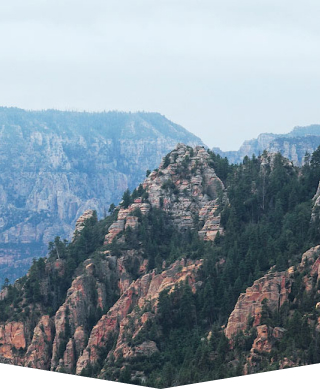
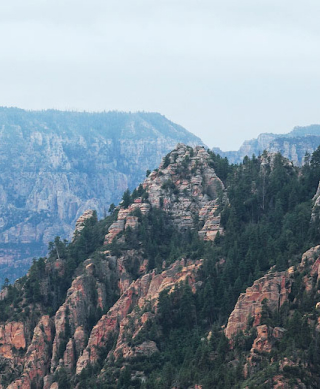
Добавляет декоративные элементы на главную

Changed region(s): [[0.0, 0.9254, 1.0, 1.0]]

diff --git a/source/index.html b/source/index.html
@@ -40,13 +40,13 @@
 
     <!-- основное содержание -->
     <main class="main-container">
-      <h1 class="main-container__title title-default">Седона — небольшой городок в Аризоне, заслуживающий большего!</h1>
+      <h1 class="main-container__title title-default content-width">Седона — небольшой городок в Аризоне, заслуживающий большего!</h1>
 
       <!-- Блок Преимущества -->
       <section class="advantages">
         <div class="advantages__wrapper">
           <h2 class="visually-hidden">Преимущества Седоны перед Гранд Каньоном</h2>
-          <p class="advantages__intro">Рассмотрим 5 причин, по которым Седона круче, чем Гранд Каньон!</p>
+          <p class="advantages__intro content-width">Рассмотрим 5 причин, по которым Седона круче, чем Гранд Каньон!</p>
           <!-- блок со списком преимуществ -->
           <ul class="advantages__list advantages-list">
             <li class="advantages-list__item advantages-list__item--1">
@@ -127,16 +127,15 @@
 
         <!-- карта -->
       </section>
+
       <section class="main-container__map map">
         <h2 class="visually-hidden">Седона на карте мира</h2>
-        <div class="map-wrapper">
-          <iframe src="https://www.google.com/maps/embed?pb=!1m18!1m12!1m3!1d298500.86974871956!2d-111.84826594698984!3d34.84935045601673!2m3!1f0!2f0!3f0!3m2!1i1024!2i768!4f13.1!3m3!1m2!1s0x872da300cd6a52d3%3A0xd0b62ffa7e756ca6!2sSedona!5e0!3m2!1sru!2sru!4v1659075685830!5m2!1sru!2sru" width="600" height="450" style="border:0;" allowfullscreen="" loading="lazy" referrerpolicy="no-referrer-when-downgrade"></iframe>
-        </div>
+        <iframe src="https://www.google.com/maps/embed?pb=!1m18!1m12!1m3!1d298500.86974871956!2d-111.84826594698984!3d34.84935045601673!2m3!1f0!2f0!3f0!3m2!1i1024!2i768!4f13.1!3m3!1m2!1s0x872da300cd6a52d3%3A0xd0b62ffa7e756ca6!2sSedona!5e0!3m2!1sru!2sru!4v1659075685830!5m2!1sru!2sru" allowfullscreen=""></iframe>
       </section>
     </main>
 
     <!-- футер -->
-    <footer class="main-footer">
+    <footer class="main-footer content-width">
       <p class="main-footer__hashtag">#visitsedona</p>
       <section class="main-footer__social social">
         <h2 class="visually-hidden">Мы в соцсетях</h2>

diff --git a/source/less/blocks/main-footer.less b/source/less/blocks/main-footer.less
@@ -5,6 +5,7 @@
   @media (min-width: @tablet-width) {
     display: flex;
     justify-content: space-between;
+    align-items: center;
     padding-top: 36px;
     padding-bottom: 36px;
   }
@@ -14,14 +15,24 @@
   font-weight: 700;
   font-size: 21px;
   line-height: 26px;
+  margin-block: 0;
   margin-bottom: 33.5px;
+
+  @media (min-width: @tablet-width) {
+    margin-bottom: 0;
+  }
 }
 
 .main-footer__social {
   margin-bottom: 40px;
+
+  @media (min-width: @tablet-width) {
+    margin-bottom: 0;
+  }
 }
 
 .main-footer__copyright {
   display: flex;
   justify-content: center;
+  align-items: center;
 }

diff --git a/source/less/blocks/advantages-list.less b/source/less/blocks/advantages-list.less
@@ -4,12 +4,29 @@
   .reset-list();
 
   @media (min-width: @tablet-width) {
+    position: relative;
     display: grid;
     grid-template-columns: repeat(3, 1fr);
     grid-template-areas:
       "a a a"
       "b b b"
       "c d e";
+  }
+
+  &::before {
+    content: "";
+    position: absolute;
+    top: -16px;
+    transform: translateX(-50%);
+    width: 0;
+    height: 0;
+    border-left: 384px solid transparent;
+    border-right: 384px solid transparent;
+    border-top: 37px solid @white;
+
+    @media (min-width: @tablet-width) {
+      display: none;
+    }
   }
 }
 

diff --git a/source/less/blocks/hero.less b/source/less/blocks/hero.less
@@ -4,6 +4,22 @@
   background-image: url("../img/banner-cover.jpg");
   background-repeat: no-repeat;
   background-position: center top;
+  position: relative;
+
+  &::after {
+    content: "";
+    position: absolute;
+    bottom: 0;
+    width: 0;
+    height: 0;
+    border-top: 37px solid transparent;
+    border-right: 384px solid @white;
+    border-left: 384px solid @white;
+
+    @media (min-width: @tablet-width) {
+      display: none;
+    }
+  }
 }
 
 .hero__slogan {

diff --git a/source/form.html b/source/form.html
@@ -10,7 +10,7 @@
 
     <!-- шапка сайта -->
     <header class="main-header">
-      <a class="main-header__logo logo">
+      <a class="main-header__logo logo" href="index.html">
         <img class="logo-image" src="img/logo.svg" width="185" height="96" alt="Логотип города Седона">
       </a>
       <nav class="main-header__nav navigation">

diff --git a/source/photo-and-video.html b/source/photo-and-video.html
@@ -10,7 +10,7 @@
 
     <!-- шапка сайта -->
     <header class="main-header">
-      <a class="main-header__logo logo">
+      <a class="main-header__logo logo" href="index.html">
         <img class="logo-image" src="img/logo.svg" width="185" height="96" alt="Логотип города Седона">
       </a>
       <nav class="main-header__nav navigation">

diff --git a/source/less/style.less b/source/less/style.less
@@ -18,6 +18,7 @@
 @import "./blocks/advantages-list.less";
 @import "./blocks/recommendation-list.less";
 @import "./blocks/search-hotel.less";
+@import "./blocks/map.less";
 @import "./blocks/main-footer.less";
 @import "./blocks/social.less";
 @import "./blocks/copyright.less";

diff --git a/source/less/blocks/main-container.less b/source/less/blocks/main-container.less
@@ -1,6 +1,12 @@
 .main-container__title {
   display: block;
   .margin-reset(35px);
+
+  @media (min-width: @tablet-width) {
+    width: 500px;
+    margin-left: auto;
+    margin-right: auto;
+  }
 }
 
 .main-container__map {

diff --git a/source/less/blocks/search-hotel.less b/source/less/blocks/search-hotel.less
@@ -2,6 +2,13 @@
   padding: 38px 18px 49px;
 }
 
+.search-hotel__wrapper {
+  @media (min-width: @tablet-width) {
+    width: 435px;
+    margin: 0 auto;
+  }
+}
+
 .search-hotel__title {
   .margin-reset(20px);
 }

diff --git a/source/less/blocks/advantages.less b/source/less/blocks/advantages.less
@@ -1,3 +1,9 @@
 .advantages__intro {
   .margin-reset(32px);
+
+  @media (min-width: @tablet-width) {
+    width: 500px;
+    margin-left: auto;
+    margin-right: auto;
+  }
 }

diff --git a/source/less/blocks/page.less b/source/less/blocks/page.less
@@ -23,5 +23,6 @@
 
   @media (min-width: @desktop-width) {
     width: @desktop-width;
+    box-shadow: 0px 5px 15px rgba(0, 1, 1, 0.2);
   }
 }

diff --git a/source/less/blocks/social.less b/source/less/blocks/social.less
@@ -1,7 +1,7 @@
 .social {
   display: flex;
   justify-content: center;
-  max-width: 300px;
+  flex-wrap: wrap;
 }
 
 .social__link {
